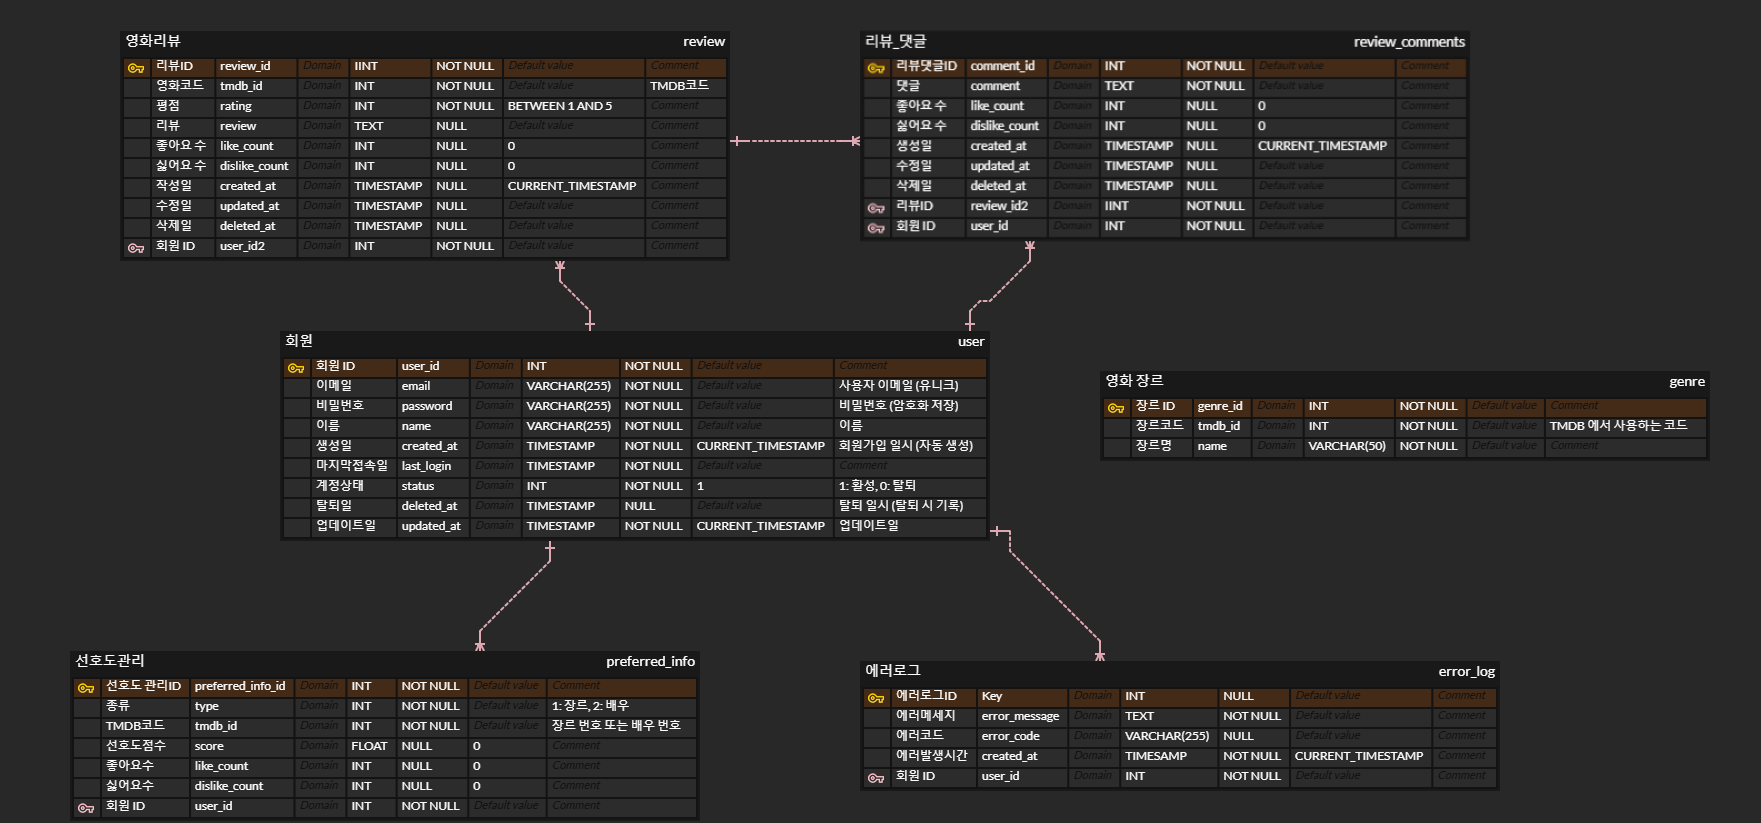
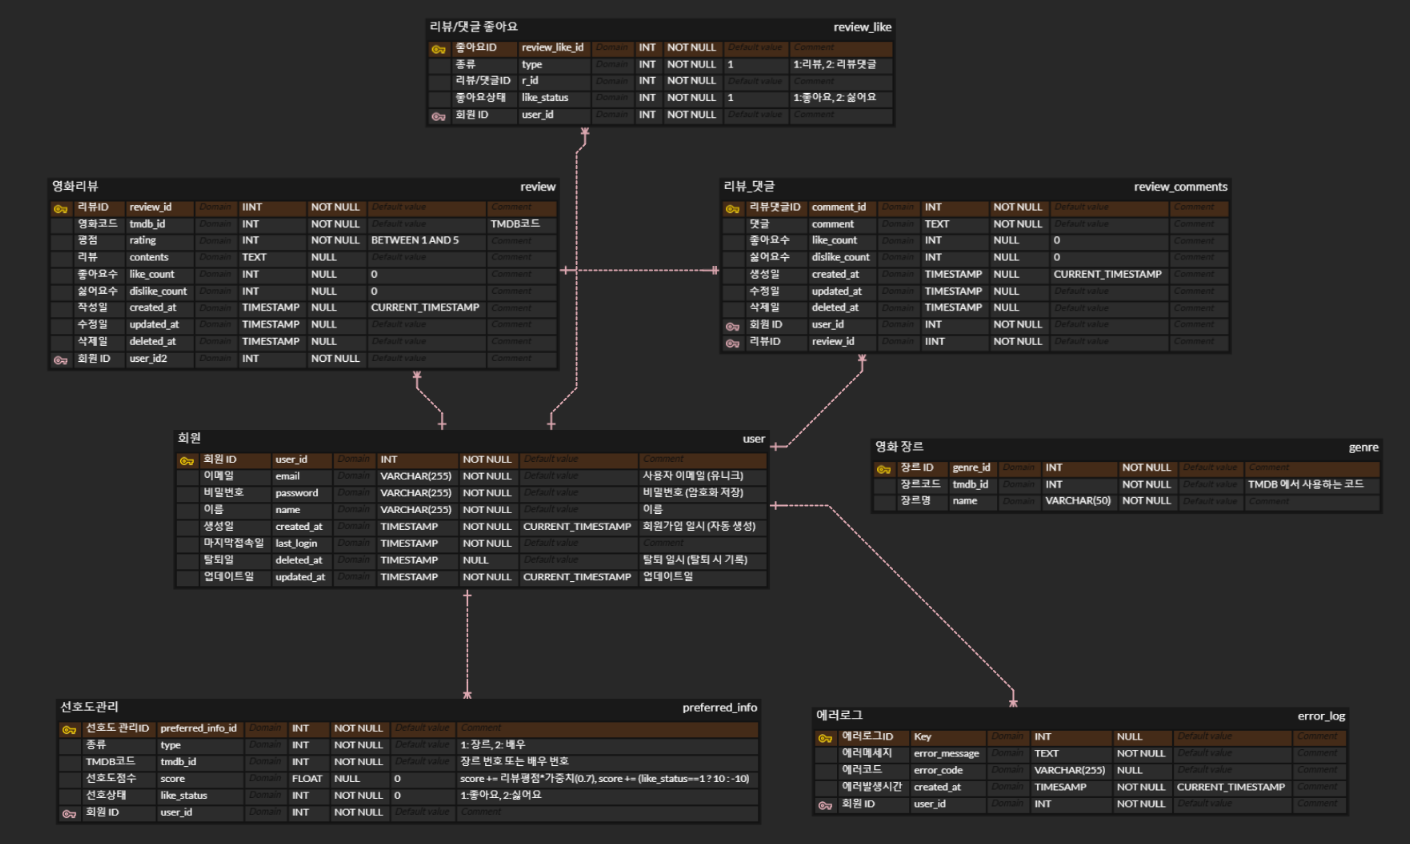
ERD, README.md 수정
- ERD :리뷰,댓글,선호도관리 테이블 컬럼수정

diff --git a/README.md b/README.md
@@ -19,9 +19,10 @@
 - 이번 주, 이번 달, 올해 인기 영화 리스트 제공
 
 4. 리뷰 및 평점 기능
-- 영화 리뷰 작성 및 보기
+- 영화 리뷰,평점 작성 및 보기
 - 사용자별 영화 평점 제공
-
+- 각 리뷰에 댓글 작성 및 보기
+- 각 리뷰/댓글에 👍(좋아요),👎(싫어요) 기능 추가
 
 ### ERD
 ![popcorn_ERD.png](doc/ERDCLOUD/popcorn_ERD.png)
